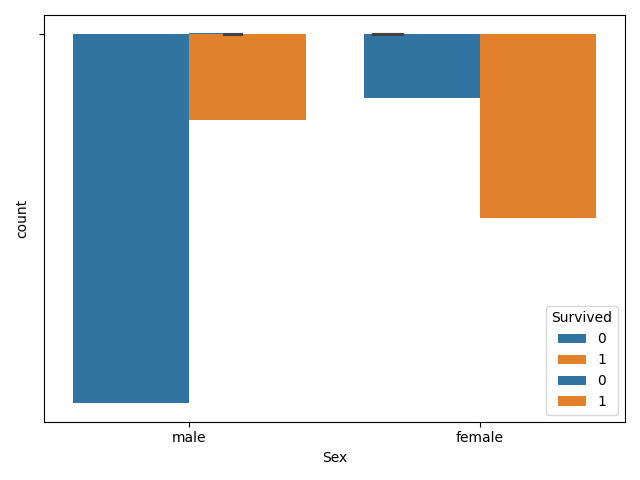
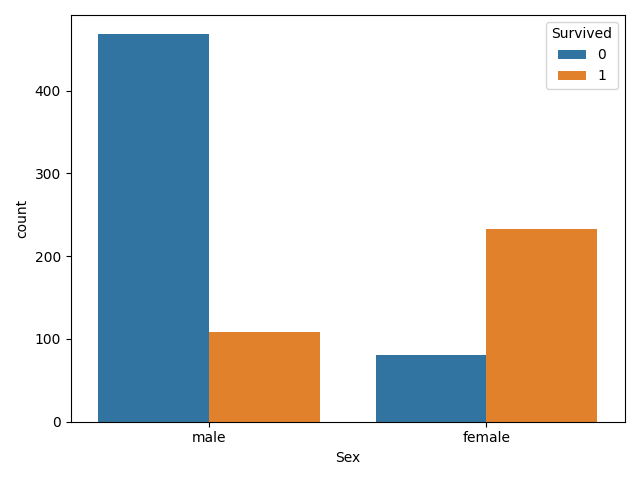
Agrego gráfico de Pclass (#2)

diff --git a/scripts/grafico.py b/scripts/grafico.py
@@ -1,10 +1,13 @@
 import pandas as pd
 import seaborn as sns
+import matplotlib.pyplot as plt
 
 datos = pd.read_csv("titanic.csv")
 
-g = sns.countplot(x = "Sex", hue = "Survived", data = datos)
-g.figure.savefig("scripts/plot.png")
+fig, ax = plt.subplots()
+sns.countplot(x = "Sex", hue = "Survived", data = datos)
+fig.savefig("supervivencia_por_sexo.png")
 
-g = sns.countplot(x = "Sex", hue = "Pclass", data = datos)
-g.figure.savefig("scripts/plot2.png")
+fig, ax = plt.subplots()
+sns.countplot(x = "Pclass", hue = "Survived", data = datos)
+fig.savefig("supervivencia_por_clase.png")
